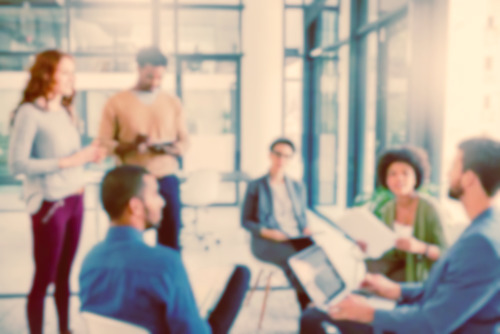
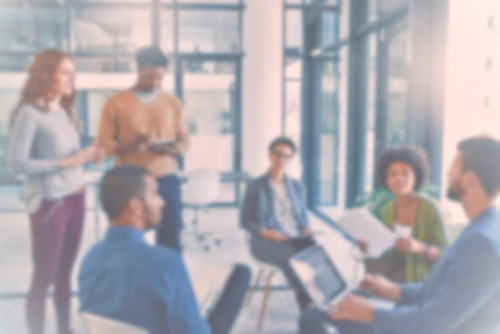
change cards in Sfour whit effect expand on click

diff --git a/src/styles/global.css b/src/styles/global.css
@@ -70,6 +70,7 @@
   --max-w-2xl: 1280px;
   --max-w-full: 100%;
 /* Fuentes */
+
 --font-primary:   "PT Sans", sans-serif;    /* títulos h1-h6 */
 --font-secondary: "Cantarell", sans-serif;  /* cuerpo de texto */
 }